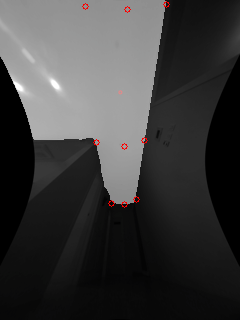
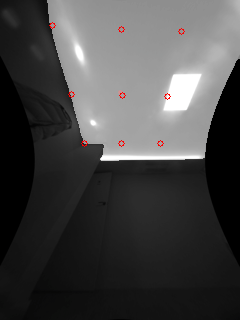
feat: update pts & saver for result

diff --git a/homography_map.py b/homography_map.py
@@ -1,77 +1,133 @@
+import os
+
 import cv2
 import numpy as np
  
 if __name__ == '__main__' :
 
-    data_root = ""
+    for i in range(6):
 
-    for n in range(10):
-        # = GT
-        # Read source image.
-        im_src = cv2.imread(f'./img/{114+n}_ov.png')
-        # input with click or stored list
-        # Four corners of the book in source image
-        # pts_src = np.array([
-        #     [ 85,   6], # 1
-        #     [127,   9], # 2
-        #     [166,   4], # 3
-
-        #     [ 96, 142], # 4
-        #     [124, 146], # 5
-        #     [144, 140], # 6
-            
-        #     [111, 203], # 7
-        #     [124, 204], # 8
-        #     [136, 199], # 9
-        # ])
-        pts_src = np.array([
-            [ 80,   6], # 1
-            [120,   6], # 2
-            [166,   6], # 3
-
-            [ 96, 142], # 4
-            [120, 142], # 5
-            [144, 142], # 6
-
-            [106, 200], # 7
-            [120, 200], # 8
-            [134, 200], # 9
-        ])
-        for x, y in pts_src:
-            im_src_vis = cv2.circle(im_src, (x, y), 3, (0, 0, 255), 1)
+        data_root = f"../../../_data/lg-ceiling/_result/LG-CEILING/"
+        image_root = os.path.join(data_root, f"image_{i+1}")
+        mask_root = os.path.join(data_root, f"mask_{i+1}")
         
-        # = Dest box
-        # Read destination image.
-        # im_dst = cv2.imread('./gt/GT.png')    # : static square
-        im_dst = np.ones((320, 240, 3))*255
+        os.makedirs(os.path.join(data_root, f'result_{i+1}/im_dst'), exist_ok=True)
+        os.makedirs(os.path.join(data_root, f'result_{i+1}/im_src'), exist_ok=True)
+        os.makedirs(os.path.join(data_root, f'result_{i+1}/im_out'), exist_ok=True)
+        os.makedirs(os.path.join(data_root, f'result_{i+1}/im_out_mask'), exist_ok=True)
 
-        # Four corners of the book in destination image.
-        pts_dst = np.array([
-            [ 60,  12], # 1
-            [120,  12], # 2
-            [180,  12], # 3
+        # for n in range(2401):
+        for n in range(550):
+            try:
+                # = GT
+                # Read source image.
+                im_src = cv2.imread(f'{image_root}/{n:05d}.png')
+                resized_im_src = cv2.resize(im_src.copy(), (240,320))
+                im_src_vis = resized_im_src.copy()
+                im_src2 = cv2.imread(f'{mask_root}/{n:05d}.png')
+                resized_im_src2 = cv2.resize(im_src2.copy(), (240,320), cv2.INTER_NEAREST)
+                im_src_vis2 = resized_im_src2.copy()*255
+                # input with click or stored list
+                # Four corners of the book in source image
+                # # pts_src = np.array([
+                # #     [ 85,   6], # 1
+                # #     [127,   9], # 2
+                # #     [166,   4], # 3
 
-            [ 60, 112], # 4
-            [120, 112], # 5
-            [180, 112], # 6
+                # #     [ 96, 142], # 4
+                # #     [124, 146], # 5
+                # #     [144, 140], # 6
+                    
+                # #     [111, 203], # 7
+                # #     [124, 204], # 8
+                # #     [136, 199], # 9
+                # # ])
+                # pts_src = np.array([
+                #     [ 80,   6], # 1
+                #     [120,   6], # 2
+                #     [166,   6], # 3
 
-            [ 60, 212], # 7
-            [120, 212], # 8
-            [180, 212], # 9
-        ])
-    
-        # Calculate Homography
-        h, status = cv2.findHomography(pts_src, pts_dst)
-    
-        # Warp source image to destination based on homography
-        im_out = cv2.warpPerspective(im_src, h, (im_dst.shape[1], im_dst.shape[0]))
-    
-        # Display images
-        cv2.imshow("Source Image", im_src)
-        cv2.imshow("Destination Image", im_dst)
-        cv2.imshow("Warped Source Image", im_out)
-    
-        cv2.waitKey(1)
+                #     [ 96, 142], # 4
+                #     [120, 142], # 5
+                #     [144, 142], # 6
+
+                #     [106, 200], # 7
+                #     [120, 200], # 8
+                #     [134, 200], # 9
+                # ])
+                pts_src = np.array([
+                    [ 50,  25],
+                    [120,  25],
+                    [190,  25],
+
+                    [ 70,  95],
+                    [120,  95],
+                    [170,  95],
+
+                    [ 85, 143],
+                    [120, 143],
+                    [155, 143],
+                ])
+                for x, y in pts_src:
+                    im_src_vis = cv2.circle(im_src_vis, (x, y), 3, (0, 0, 255), 1)
+                    # im_src_vis2 = cv2.circle(im_src_vis2, (x, y), 3, (0, 0, 255), 1)
+                
+                # = Dest box
+                # Read destination image.
+                # im_dst = cv2.imread('./gt/GT.png')    # : static square
+                im_dst = np.ones((320, 240, 3))*255
+
+                # Four corners of the book in destination image.
+                # pts_dst = np.array([
+                #     [ 60,  12], # 1
+                #     [120,  12], # 2
+                #     [180,  12], # 3
+
+                #     [ 60, 112], # 4
+                #     [120, 112], # 5
+                #     [180, 112], # 6
+
+                #     [ 60, 212], # 7
+                #     [120, 212], # 8
+                #     [180, 212], # 9
+                # ])
+                pts_dst = np.array([
+                    [ 60,   5],
+                    [120,   5],
+                    [180,   5],
+                    [ 60,  60],
+                    [120,  60],
+                    [180,  60],
+                    [ 60, 125],
+                    [120, 125],
+                    [180, 125],
+                ])
+            
+                # Calculate Homography
+                h, status = cv2.findHomography(pts_src, pts_dst)
+            
+                # Warp source image to destination based on homography
+                im_out = cv2.warpPerspective(im_src_vis, h, (im_dst.shape[1], im_dst.shape[0]))
+                im_out2 = cv2.warpPerspective(im_src_vis2, h, (im_dst.shape[1], im_dst.shape[0]))
+            
+                # Display images
+                cv2.imshow("Source Image", im_src_vis)
+                cv2.imshow("Destination Image", im_dst)
+                cv2.imshow("Warped Source Image", im_out)
+                cv2.imshow("Warped Source Image2", im_out2)
+            
+                cv2.waitKey(1)
+
+                if n == 0:
+                    cv2.imwrite(os.path.join(data_root, f'result_{i+1}/im_dst/{n:05d}.png'), im_dst)
+
+                cv2.imwrite(os.path.join(data_root, f'result_{i+1}/im_src/{n:05d}.png'), im_src_vis)
+                cv2.imwrite(os.path.join(data_root, f'result_{i+1}/im_out/{n:05d}.png'), im_out)
+                cv2.imwrite(os.path.join(data_root, f'result_{i+1}/im_out_mask/{n:05d}.png'), im_out2)
+                # cv2.imwrite(f"./result/im_dst/{0+n}_dst.png", canvas_img)
+            except:
+                print(f"pass ... dataset {i} - {n:05d}")
+            temp_value = 0
 
         temp_value = 0
 

diff --git a/select_pts_gt.py b/select_pts_gt.py
@@ -28,11 +28,12 @@ if __name__ == '__main__' :
 
     # = GT
     # Read source image.
-    im_src = cv2.imread('./img/114_ov.png')
+    im_src = cv2.imread('./img/156_ov.png')
 
     canvas_img = im_src.copy()
     cv2.imshow("Image", canvas_img)
-    cv2.waitKey(0)
+    key = cv2.waitKey(1)
+    key = None
     # key = cv2.waitKey(1)
 
     cv2.setMouseCallback("Image", mouse_click)
@@ -41,7 +42,7 @@ if __name__ == '__main__' :
     pts_src = []
 
     while True:
-        key = cv2.waitKey(1)
+        key = cv2.waitKey(0)
         if key == ord('q'):
             break
         elif key == ord('s'):
